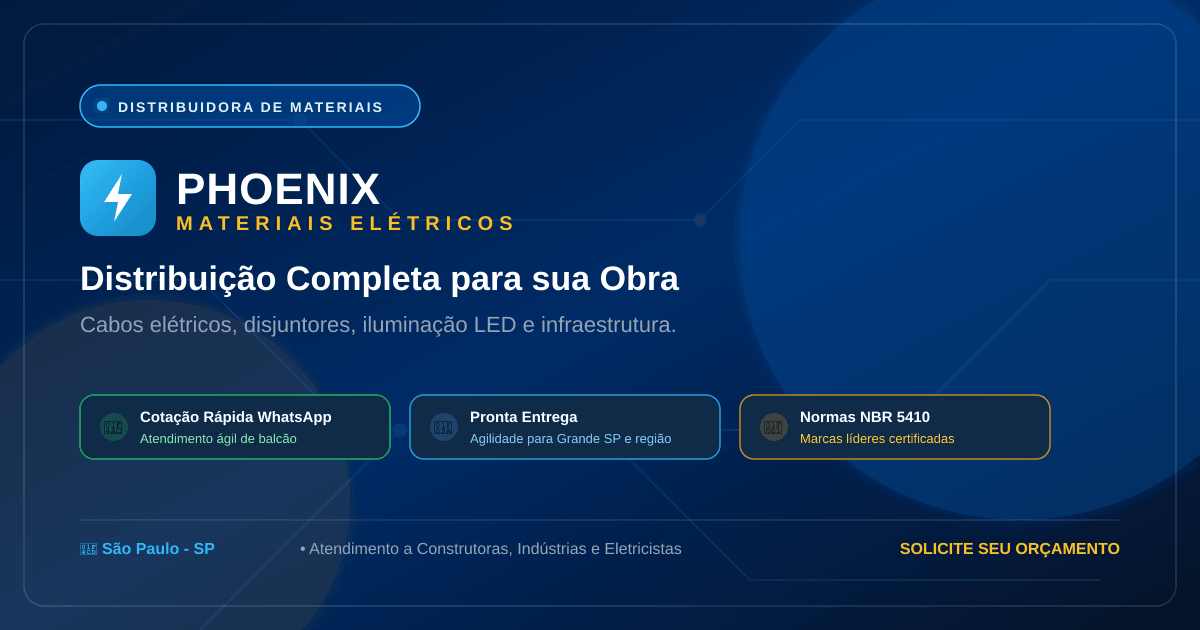
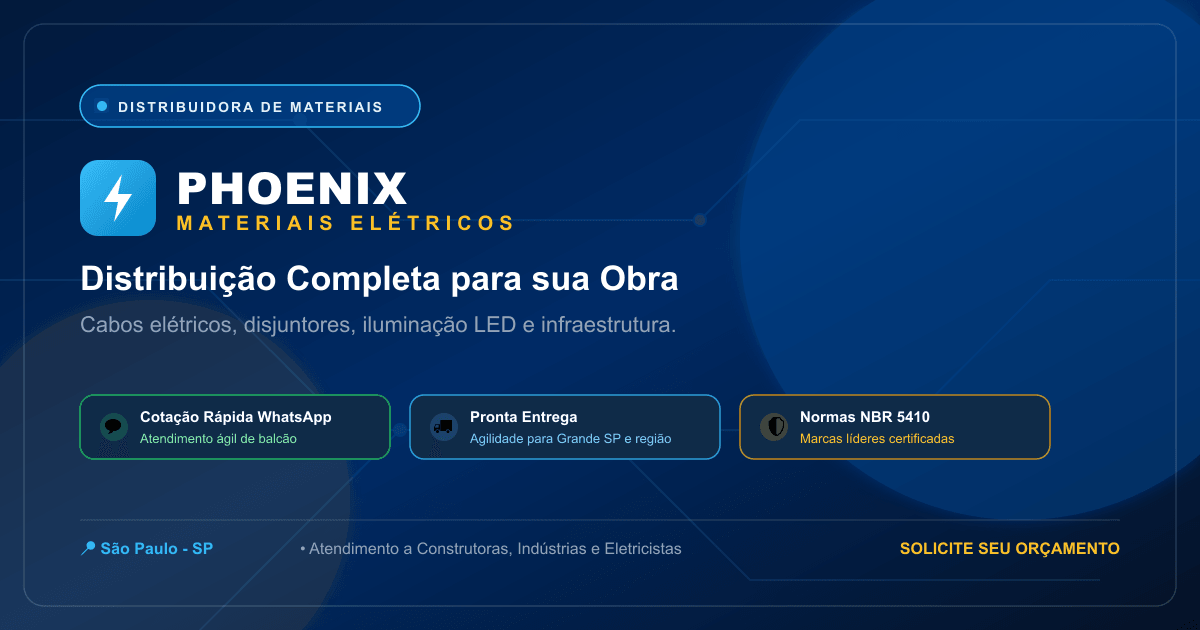
feat: domínio oficial phoenixel.com.br e redirect 301 por CANONICAL_HOST
- SITE_URL, canonical, og, JSON-LD e sitemap do robots.txt em https://phoenixel.com.br
- CANONICAL_HOST: www e *.run.app redirecionam 301 para o domínio oficial
- og-image com ícones corrigidos

diff --git a/index.html b/index.html
@@ -6,7 +6,7 @@
     <title>Materiais Elétricos em SP | Phoenix Elétrica Distribuidora</title>
     <meta name="description" content="Distribuidora de materiais elétricos no Bom Retiro, SP: fios e cabos, disjuntores, quadros e LED. Faturamento para CNPJ e cotação rápida no WhatsApp." />
     <meta name="robots" content="index, follow, max-image-preview:large" />
-    <link rel="canonical" href="https://phoenix-el-trica-distribuidora-de-materiais-el-tr.ai.studio/" />
+    <link rel="canonical" href="https://phoenixel.com.br/" />
     <meta name="theme-color" content="#081634" />
 
     <!-- Ícones: aba do navegador, resultados do Google e atalho no celular -->
@@ -29,8 +29,8 @@
     <meta property="og:site_name" content="Phoenix Elétrica" />
     <meta property="og:title" content="Materiais Elétricos em SP | Phoenix Elétrica Distribuidora" />
     <meta property="og:description" content="Distribuidora de materiais elétricos no Bom Retiro, SP: fios e cabos, disjuntores, quadros e LED. Faturamento para CNPJ e cotação rápida no WhatsApp." />
-    <meta property="og:url" content="https://phoenix-el-trica-distribuidora-de-materiais-el-tr.ai.studio/" />
-    <meta property="og:image" content="https://phoenix-el-trica-distribuidora-de-materiais-el-tr.ai.studio/og-image.png" />
+    <meta property="og:url" content="https://phoenixel.com.br/" />
+    <meta property="og:image" content="https://phoenixel.com.br/og-image.png" />
     <meta property="og:image:type" content="image/png" />
     <meta property="og:image:width" content="1200" />
     <meta property="og:image:height" content="630" />
@@ -40,20 +40,20 @@
     <meta name="twitter:card" content="summary_large_image" />
     <meta name="twitter:title" content="Materiais Elétricos em SP | Phoenix Elétrica Distribuidora" />
     <meta name="twitter:description" content="Distribuidora de materiais elétricos no Bom Retiro, SP. Faturamento para CNPJ e cotação rápida no WhatsApp." />
-    <meta name="twitter:image" content="https://phoenix-el-trica-distribuidora-de-materiais-el-tr.ai.studio/og-image.png" />
+    <meta name="twitter:image" content="https://phoenixel.com.br/og-image.png" />
 
     <!-- Dados estruturados: loja física de materiais elétricos (Schema.org) -->
     <script type="application/ld+json">
     {
       "@context": "https://schema.org",
       "@type": "HardwareStore",
-      "@id": "https://phoenix-el-trica-distribuidora-de-materiais-el-tr.ai.studio/#loja",
+      "@id": "https://phoenixel.com.br/#loja",
       "name": "Phoenix Elétrica",
       "alternateName": "Phoenix Elétrica Distribuidora de Materiais Elétricos",
       "description": "Distribuidora de materiais elétricos para construtoras, indústrias e instaladores em São Paulo: fios e cabos, disjuntores, quadros de distribuição e iluminação LED.",
-      "url": "https://phoenix-el-trica-distribuidora-de-materiais-el-tr.ai.studio/",
-      "image": "https://phoenix-el-trica-distribuidora-de-materiais-el-tr.ai.studio/og-image.png",
-      "logo": "https://phoenix-el-trica-distribuidora-de-materiais-el-tr.ai.studio/icon-512.png",
+      "url": "https://phoenixel.com.br/",
+      "image": "https://phoenixel.com.br/og-image.png",
+      "logo": "https://phoenixel.com.br/icon-512.png",
       "telephone": "+55-11-3352-7777",
       "email": "phoenix@phoenixel.com.br",
       "address": {

diff --git a/server.ts b/server.ts
@@ -482,6 +482,17 @@ async function startServer() {
     app.use((req, res) => res.redirect(redirectStatus, REDIRECT_TO_ORIGIN + req.originalUrl));
   }
 
+  // Domínio oficial único para SEO: www e *.run.app vão com 301 para CANONICAL_HOST.
+  // Só redireciona quando o host é diferente, então não há loop.
+  const CANONICAL_HOST = (process.env.CANONICAL_HOST || '').toLowerCase();
+  if (CANONICAL_HOST) {
+    app.use((req, res, next) => {
+      const host = (req.get('host') || '').toLowerCase().split(':')[0];
+      if (!host || host === CANONICAL_HOST || host === 'localhost' || host === '127.0.0.1') return next();
+      res.redirect(301, `https://${CANONICAL_HOST}${req.originalUrl}`);
+    });
+  }
+
   app.use(express.json({ limit: '50mb' }));
   app.use(express.urlencoded({ extended: true, limit: '50mb' }));
 

diff --git a/src/seo/pages.ts b/src/seo/pages.ts
@@ -2,10 +2,10 @@
 // Usado pelo navegador (React) e pelo servidor (server.ts), que monta o <head>
 // de cada endereço, o sitemap.xml e responde 404 para endereços desconhecidos.
 
-export const SITE_URL = 'https://phoenix-el-trica-distribuidora-de-materiais-el-tr.ai.studio';
+export const SITE_URL = 'https://phoenixel.com.br';
 
 // Data da última alteração de conteúdo (vai para o <lastmod> do sitemap)
-export const LAST_MODIFIED = '2026-10-12';
+export const LAST_MODIFIED = '2026-10-18';
 
 export interface SeoPage {
   path: string;
